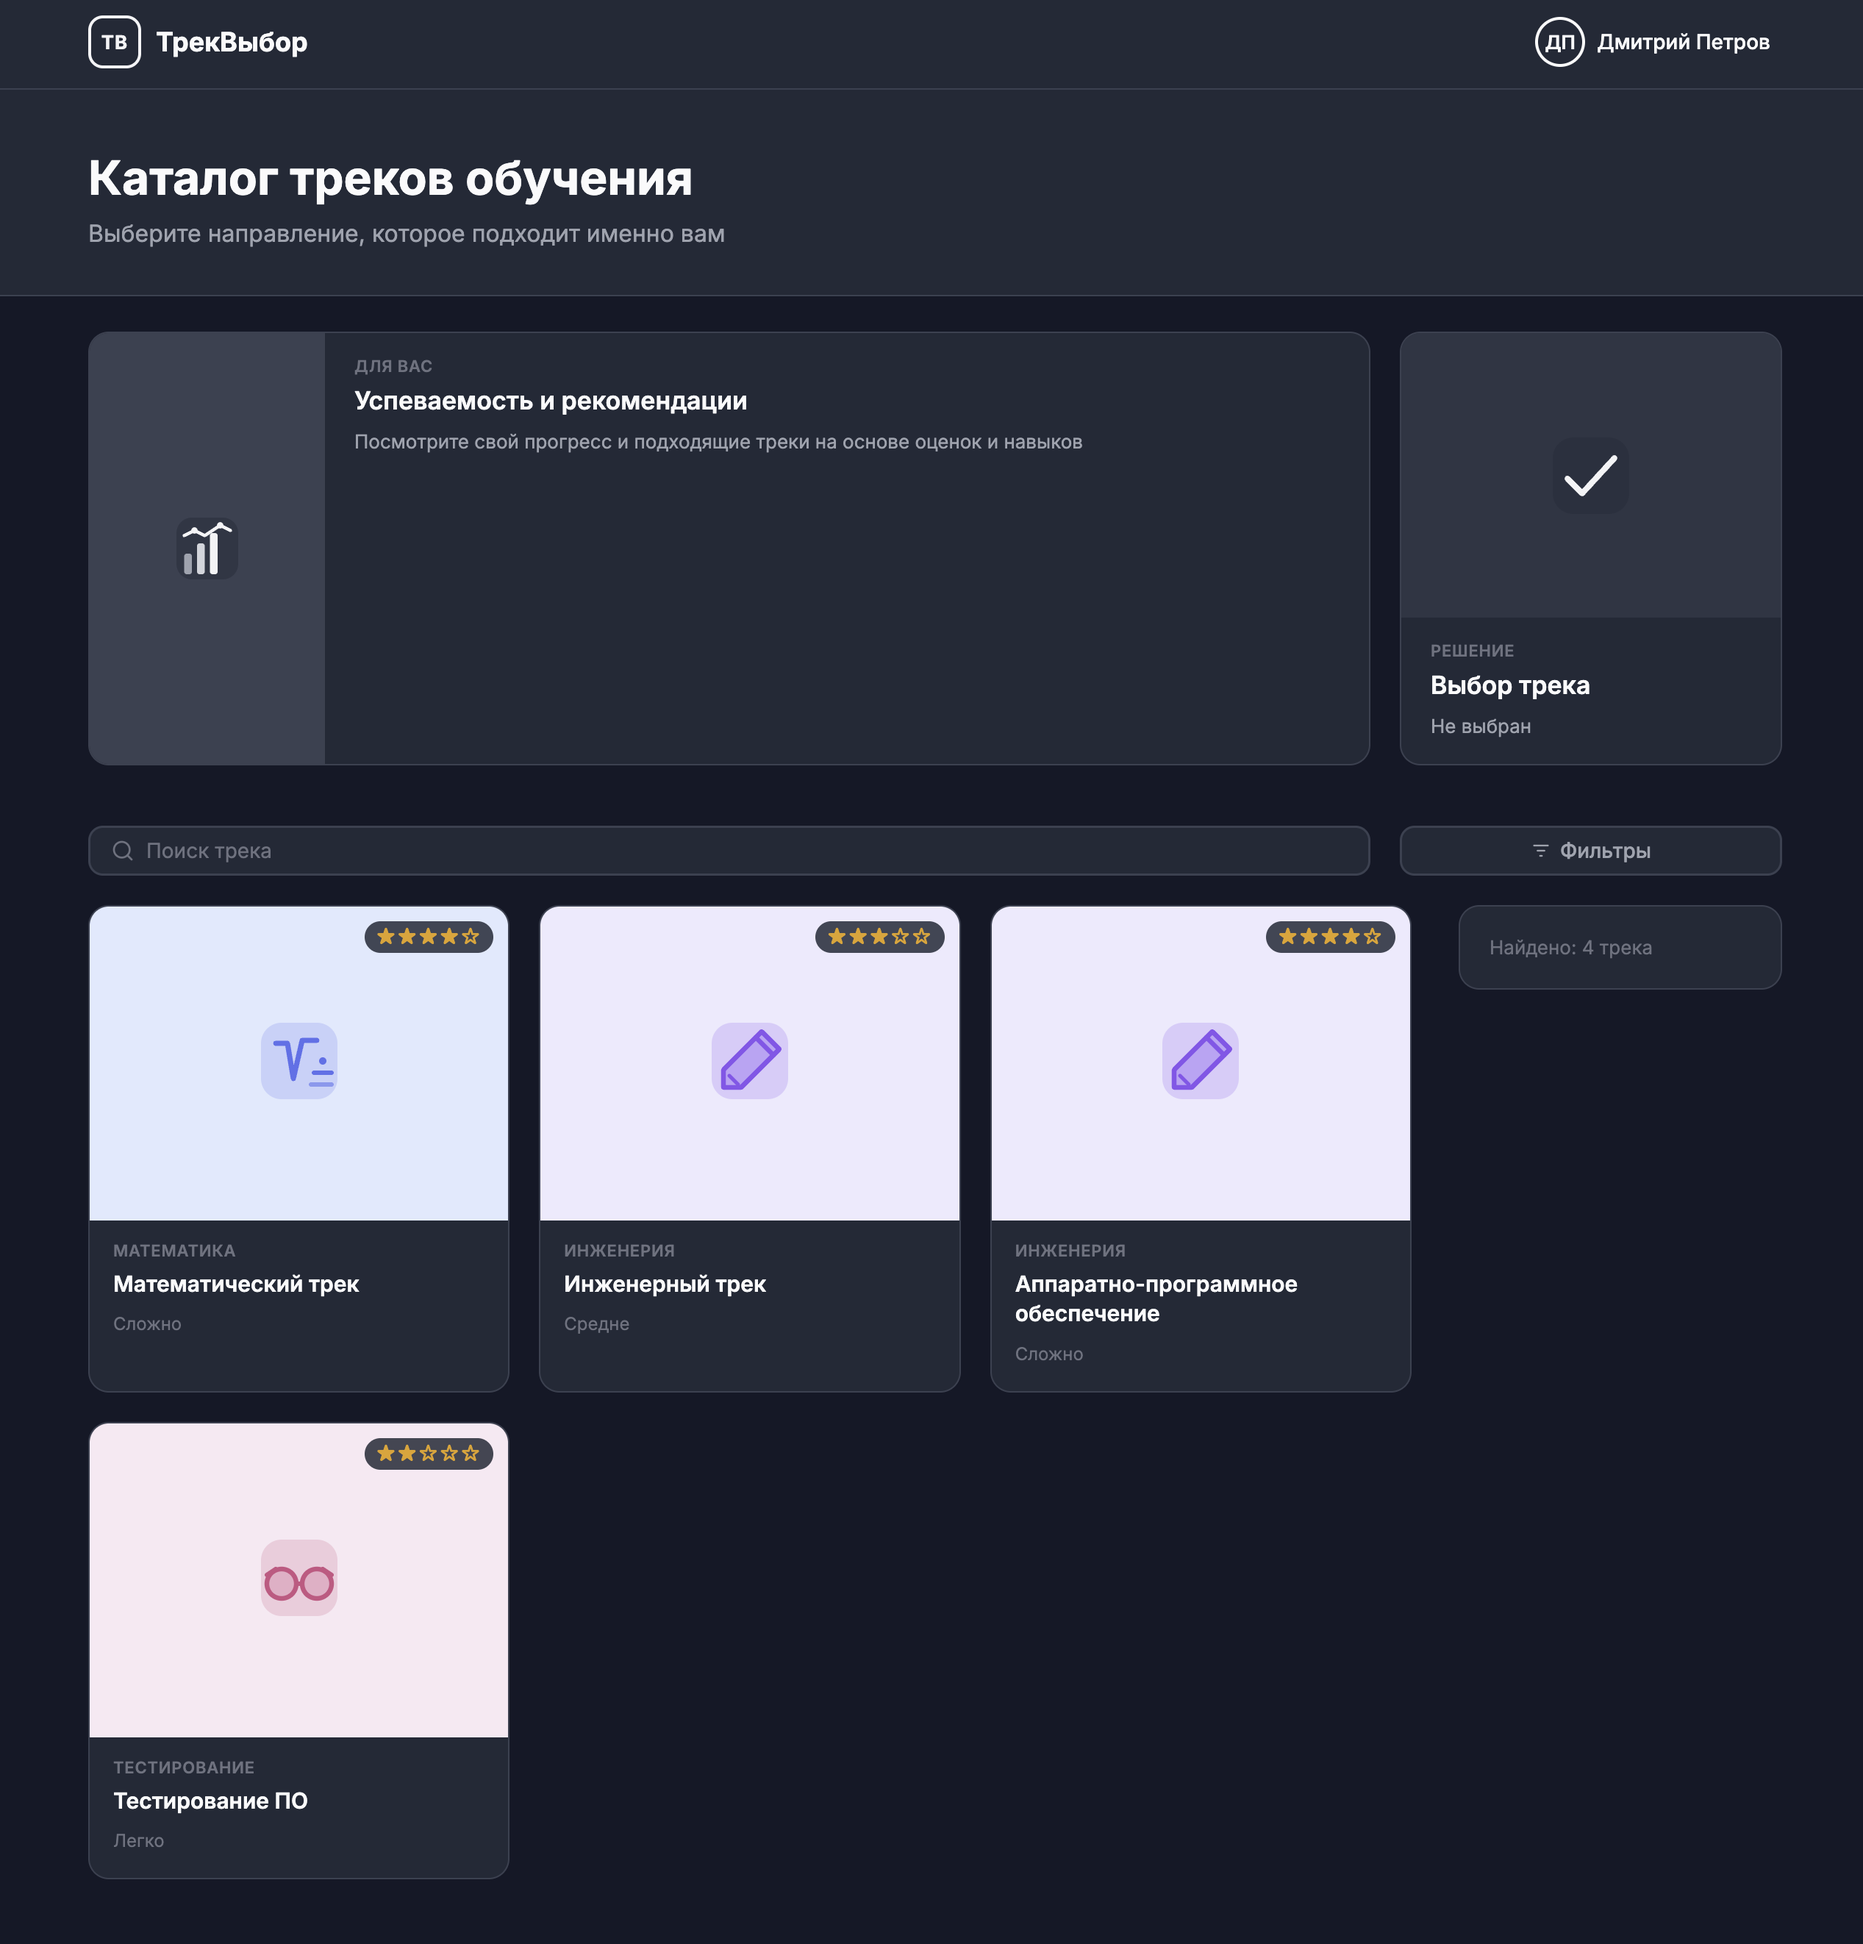
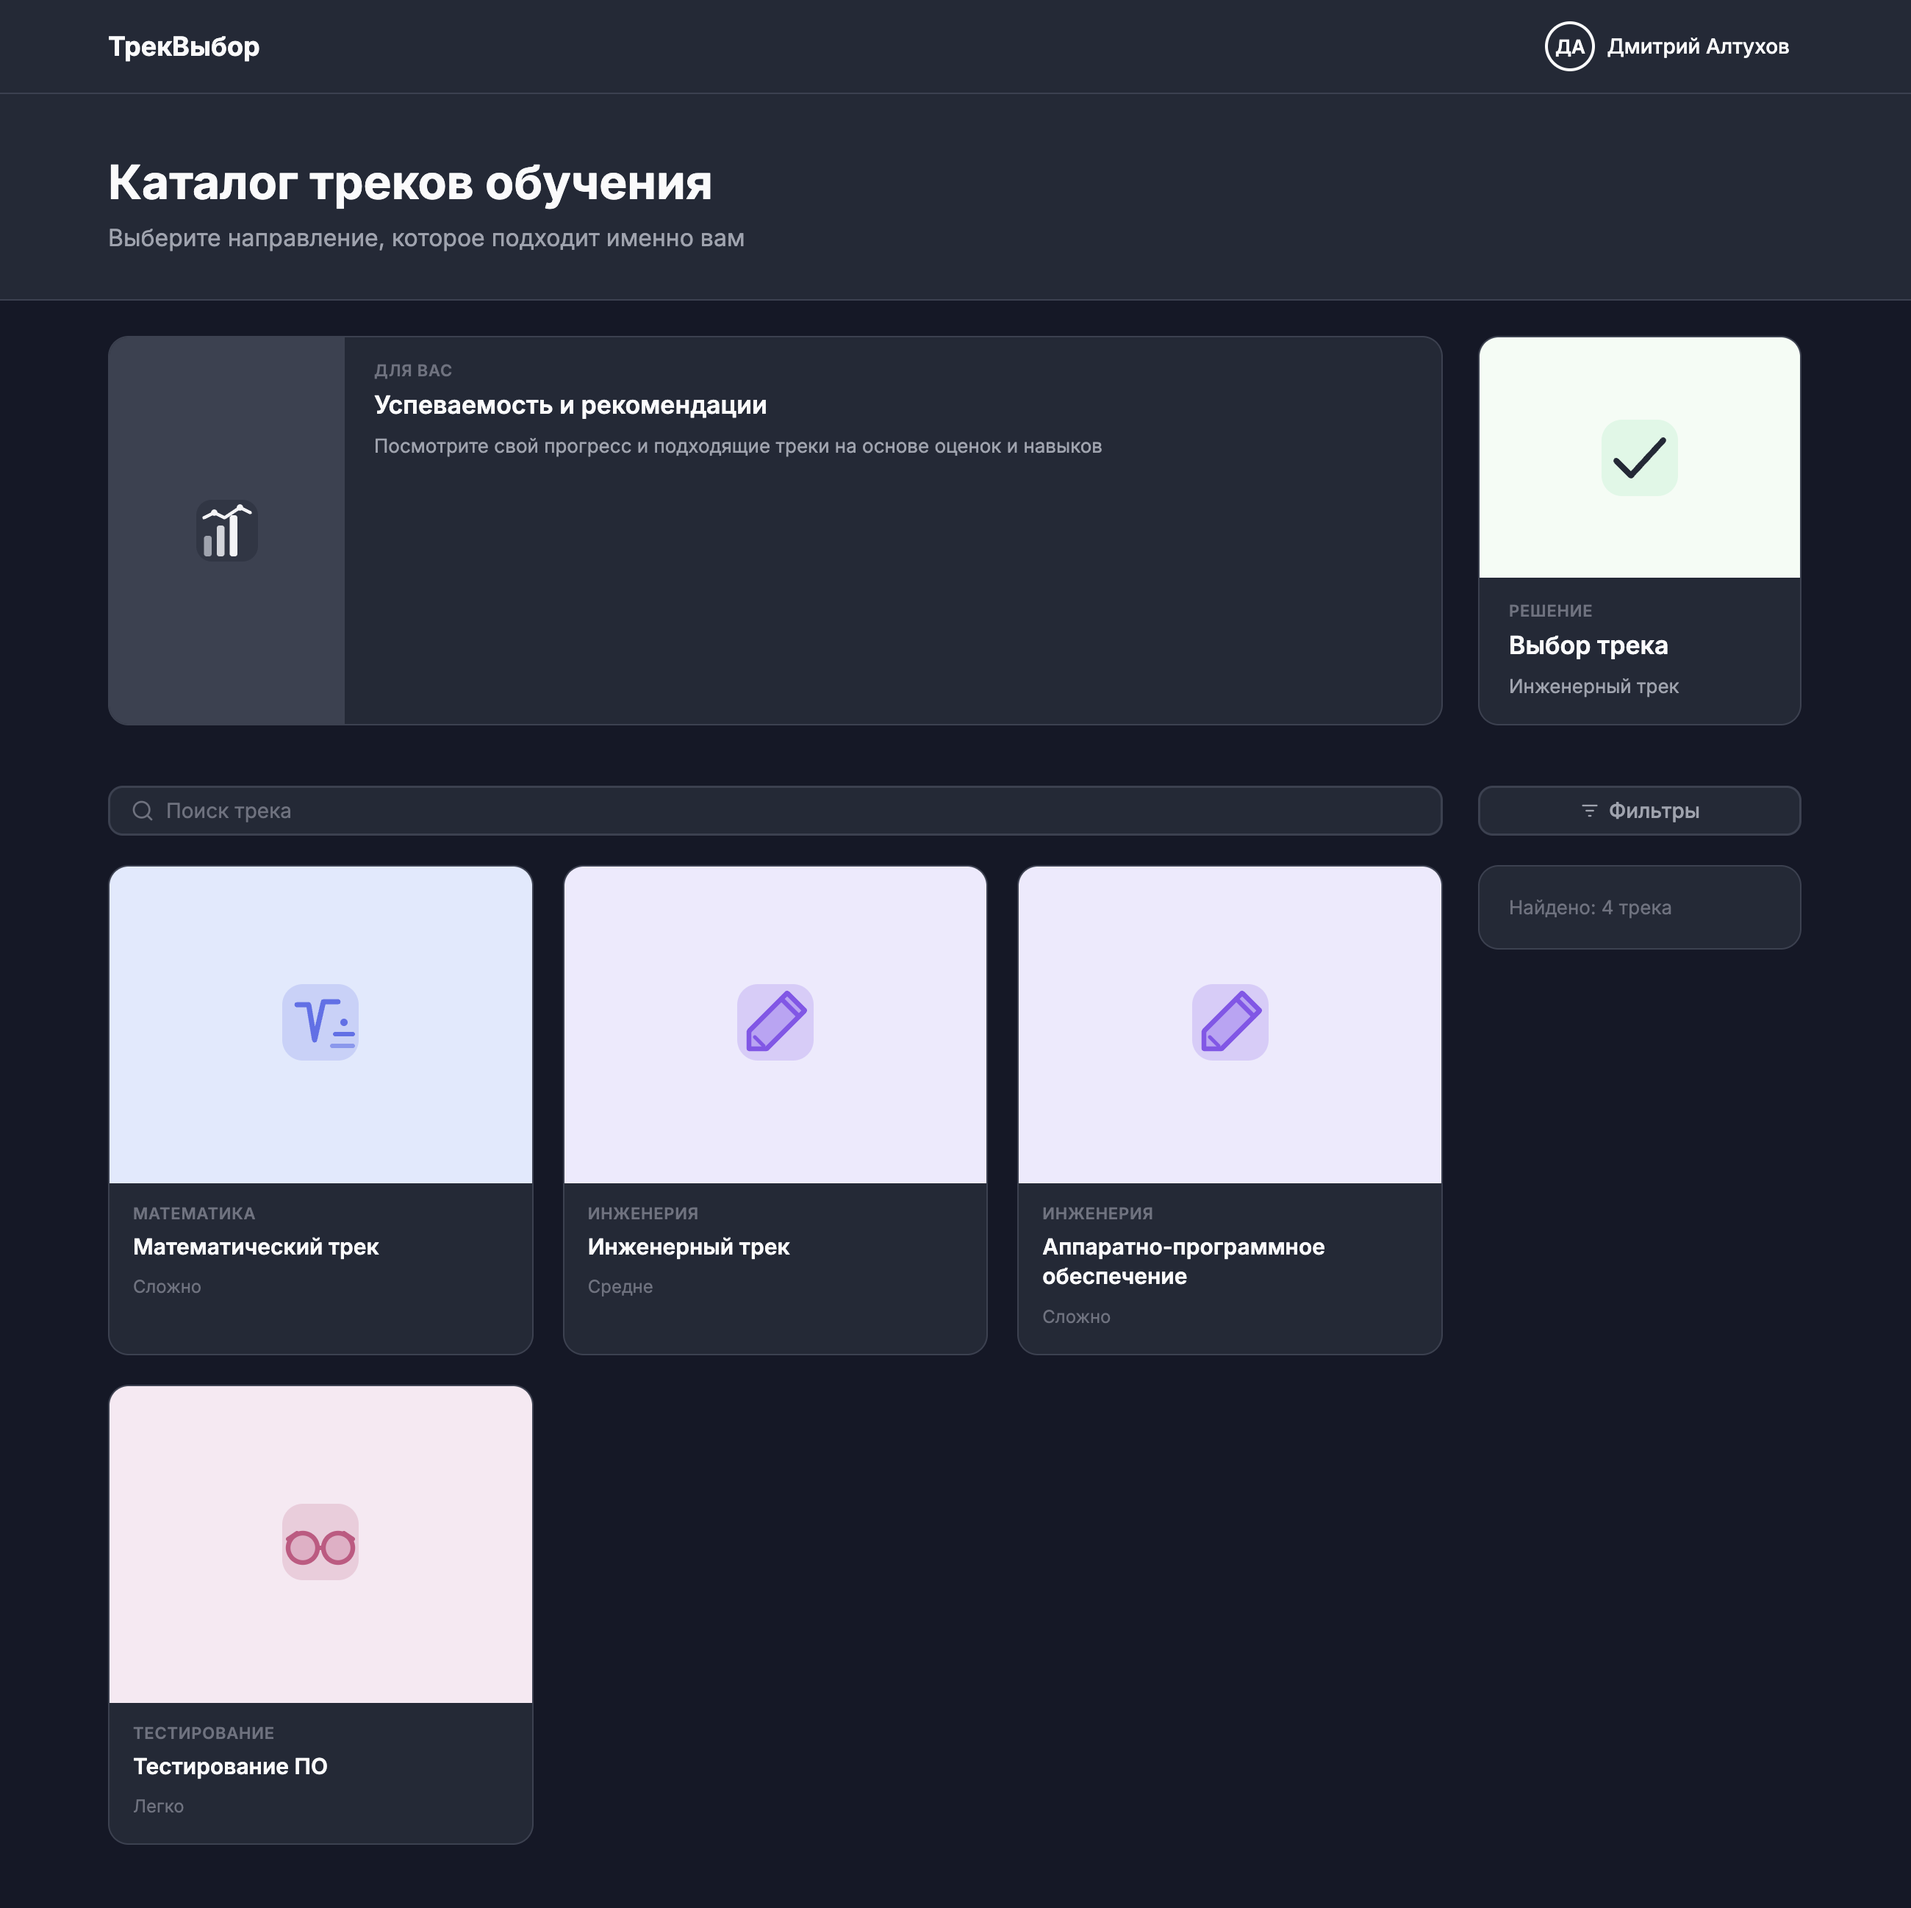
minor changes in the mobile version and the dark theme

diff --git a/frontend/src/index.css b/frontend/src/index.css
@@ -363,7 +363,7 @@ input, select { font-family: inherit; }
 .layout {
   display: grid;
   grid-template-columns: 1fr 220px;
-  gap: 32px;
+  gap: 24px;
   align-items: start;
 }
 
@@ -783,6 +783,7 @@ input, select { font-family: inherit; }
 [data-theme="dark"] .logo-icon     { background: var(--bg-card); border-color: var(--accent); }
 [data-theme="dark"] .hero          { background: var(--bg-card); border-color: var(--border); }
 [data-theme="dark"] .action-bar   { background: var(--bg-page); border-color: var(--border); }
+[data-theme="dark"] .btn-primary   { color: #111827; }
 [data-theme="dark"] .btn-outline   { border-color: var(--accent); color: var(--accent); }
 [data-theme="dark"] .btn-outline:hover { background: var(--accent-light); }
 [data-theme="dark"] .btn-ghost:hover { background: var(--bg-page); }
@@ -858,8 +859,8 @@ input, select { font-family: inherit; }
 .search-sticky-bar--stuck { border-bottom: 1px solid var(--border); }
 .top-block {
   display: grid;
-  grid-template-columns: 1fr 260px;
-  gap: 20px;
+  grid-template-columns: 1fr 220px;
+  gap: 24px;
   margin-bottom: 30px;
   padding-bottom: 0;
   border-bottom: none;
@@ -867,12 +868,12 @@ input, select { font-family: inherit; }
 .search-filter-row {
   display: flex;
   align-items: center;
-  gap: 20px;
+  gap: 24px;
 }
 .search-filter-row--grid {
   display: grid;
-  grid-template-columns: 1fr 260px;
-  gap: 20px;
+  grid-template-columns: 1fr 220px;
+  gap: 24px;
 }
 .search-box--full { width: 100%; }
 .action-card {
@@ -940,6 +941,22 @@ input, select { font-family: inherit; }
 }
 .action-card--square {
   flex-direction: column;
+}
+.action-card--selected .action-card-visual--pick {
+  background: #F0FDF4;
+}
+.action-card--selected .action-card-visual--pick svg rect {
+  fill: #D1FAE5;
+  opacity: 1;
+}
+[data-theme="dark"] .action-card--selected .action-card-visual--pick {
+  background: #F0FDF4;
+}
+[data-theme="dark"] .action-card--selected .action-card-visual--pick svg rect {
+  fill: #D1FAE5;
+}
+[data-theme="dark"] .action-card--selected .action-card-visual--pick svg path {
+  stroke: #1F2937;
 }
 
 /* ============================================================
@@ -1056,6 +1073,28 @@ input, select { font-family: inherit; }
   font-size: 14px;
 }
 .details-list strong { color: var(--text-primary); font-weight: 600; }
+
+.details-text-list {
+  list-style: none;
+  display: flex;
+  flex-direction: column;
+  gap: 4px;
+}
+.details-text-list li {
+  position: relative;
+  padding-left: 14px;
+  font-size: 14px;
+  color: var(--text-primary);
+  line-height: 1.5;
+}
+.details-text-list li::before {
+  content: '·';
+  position: absolute;
+  left: 0;
+  color: var(--text-muted);
+  font-size: 16px;
+  line-height: 1.3;
+}
 
 .chip-row { display: flex; flex-wrap: wrap; gap: 8px; }
 .chip {
@@ -1891,10 +1930,28 @@ input, select { font-family: inherit; }
   .footer-bottom { flex-direction: column; align-items: flex-start; }
   .form-row { grid-template-columns: 1fr; }
   .form-row-3 { grid-template-columns: 1fr; }
-  .top-block { grid-template-columns: 1fr; padding-bottom: 12px; }
-  .search-filter-row--grid { grid-template-columns: 1fr; }
-  .action-card--wide { flex-direction: column; }
-  .action-card-visual--perf { width: 100%; aspect-ratio: 16/7; }
+  .top-block { grid-template-columns: 1fr; padding-bottom: 0; margin-bottom: 8px; }
+  .action-bar { padding-top: 16px; }
+  .search-sticky-bar { padding: 6px 0; }
+  .search-filter-row--grid { grid-template-columns: 1fr; gap: 8px; }
+  .search-filter-row { gap: 8px; }
+  .search-sticky-bar { padding: 6px 0 2px; }
+  .content-area { padding-top: 0; }
+  .layout { gap: 8px; }
+  .sidebar { order: -1; padding: 0; background: transparent; border: none; margin-top: 4px; }
+  .sidebar .results-count { display: none; }
+  .active-filters { margin-top: 0; }
+  .action-card--wide,
+  .action-card--square { flex-direction: row; align-items: stretch; }
+  .action-card-visual--perf { width: 88px; aspect-ratio: auto; align-self: stretch; }
+  .action-card-visual--perf svg { width: 40px; height: 40px; }
+  .action-card-visual--pick { aspect-ratio: auto; width: 88px; align-self: stretch; }
+  .action-card-visual--pick svg { width: 44px; height: 44px; }
+  .action-card-body { padding: 12px 14px; gap: 2px; }
+  .action-card-eyebrow { font-size: 10px; letter-spacing: .3px; }
+  .action-card-title { font-size: 15px; margin-top: 1px; }
+  .action-card-meta { font-size: 12px; margin-top: 2px; }
+  .top-block { gap: 12px; }
   .modal--wide { padding: 18px 20px; }
   .grade-grid { grid-template-columns: 1fr; }
   .skill-grid { grid-template-columns: 1fr; }
@@ -1907,6 +1964,5 @@ input, select { font-family: inherit; }
 }
 
 @media (max-width: 479px) {
-  .logo-text { display: none; }
   .footer-links { grid-template-columns: 1fr; }
 }

diff --git a/frontend/src/components/TrackDetailsModal.jsx b/frontend/src/components/TrackDetailsModal.jsx
@@ -100,20 +100,20 @@ export default function TrackDetailsModal({ track, onClose }) {
           {goals.length > 0 && (
             <section className="details-section">
               <h3>Подходит для целей</h3>
-              <div className="chip-row">
+              <ul className="details-text-list">
                 {goals.map((g) => (
-                  <span key={g} className="chip">{GOAL_LABEL[g] || `Цель ${g}`}</span>
+                  <li key={g}>{GOAL_LABEL[g] || `Цель ${g}`}</li>
                 ))}
-              </div>
+              </ul>
             </section>
           )}
 
           {teachers.length > 0 && (
             <section className="details-section">
               <h3>Преподаватели</h3>
-              <div className="chip-row">
-                {teachers.map((t, i) => <span key={i} className="chip">{t}</span>)}
-              </div>
+              <ul className="details-text-list">
+                {teachers.map((t, i) => <li key={i}>{t}</li>)}
+              </ul>
             </section>
           )}
 
@@ -125,7 +125,7 @@ export default function TrackDetailsModal({ track, onClose }) {
                   {years.map((yp) => (
                     <div key={yp.year} className="year-plan">
                       <div className="year-plan-header">
-                        <span className="year-plan-num">{yp.year} курс</span>
+                        <span className="year-plan-num">{computeCourseLabel(yp)}</span>
                         {yp.type === 'branching' && (
                           <span className="year-plan-badge">выбор специализации</span>
                         )}
@@ -171,6 +171,31 @@ function Metric({ label, value }) {
       <span className="metric-value">{value}</span>
     </div>
   )
+}
+
+function collectSemesterNumbers(yp) {
+  const nums = []
+  if (yp?.type === 'single') {
+    for (const s of yp.track?.semesters || []) nums.push(s.number || 1)
+  }
+  if (yp?.type === 'branching') {
+    const walk = (branches) => {
+      for (const br of branches || []) {
+        for (const s of br.semesters || []) nums.push(s.number || 1)
+        walk(getNestedBranches(br))
+      }
+    }
+    walk(yp.branches)
+  }
+  return nums
+}
+
+function computeCourseLabel(yp) {
+  const nums = collectSemesterNumbers(yp)
+  if (!nums.length) return `${yp.year} курс`
+  const minC = Math.ceil(Math.min(...nums) / 2)
+  const maxC = Math.ceil(Math.max(...nums) / 2)
+  return minC === maxC ? `${minC} курс` : `${minC}-${maxC} курс`
 }
 
 const BRANCH_COLORS = ['#2563EB', '#7C3AED', '#059669', '#D97706', '#DC2626', '#0891B2']

diff --git a/frontend/src/pages/Home.jsx b/frontend/src/pages/Home.jsx
@@ -198,13 +198,13 @@ export default function Home({ user, onOpenProfile, onOpenLogin }) {
               </button>
 
               <button
-                className="action-card action-card--square"
+                className={`action-card action-card--square${selectedTrack ? ' action-card--selected' : ''}`}
                 onClick={() => setPickerOpen(true)}
               >
                 <div className="action-card-visual action-card-visual--pick">
                   <svg width="72" height="72" viewBox="0 0 72 72" fill="none" aria-hidden="true">
                     <rect x="10" y="10" width="52" height="52" rx="14" fill="#fff" opacity=".4"/>
-                    <path d="M20 38 L30 48 L52 24" stroke="#4B5563" strokeWidth="4" strokeLinecap="round" strokeLinejoin="round"/>
+                    <path d="M20 38 L30 48 L52 24" stroke="#1F2937" strokeWidth="4" strokeLinecap="round" strokeLinejoin="round"/>
                   </svg>
                 </div>
                 <div className="action-card-body">

diff --git a/frontend/src/components/TrackCard.jsx b/frontend/src/components/TrackCard.jsx
@@ -24,12 +24,6 @@ export default function TrackCard({ track, onOpen, isAdmin, onEdit, onDelete }) 
     >
       <div className="card-visual" style={{ background: style.color }}>
         <div dangerouslySetInnerHTML={{ __html: style.icon(style.shapeColor) }} />
-        <span className="card-badge difficulty">
-          <span className="difficulty-stars" aria-hidden="true">
-            {'★'.repeat(difficulty)}{'☆'.repeat(5 - difficulty)}
-          </span>
-          <span className="sr-only">Сложность {difficulty} из 5</span>
-        </span>
       </div>
 
       <div className="card-body">

diff --git a/frontend/src/components/Header.jsx b/frontend/src/components/Header.jsx
@@ -24,7 +24,6 @@ export default function Header({ user, onOpenLogin, onOpenRegister, onLogout, on
       <div className="container">
         <div className="header-inner">
           <a href="/" className="logo" aria-label="На главную">
-            <div className="logo-icon">ТВ</div>
             <span className="logo-text">ТрекВыбор</span>
           </a>
 
